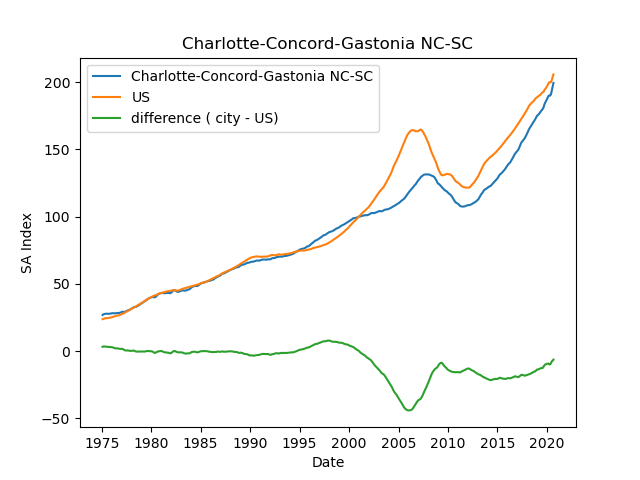
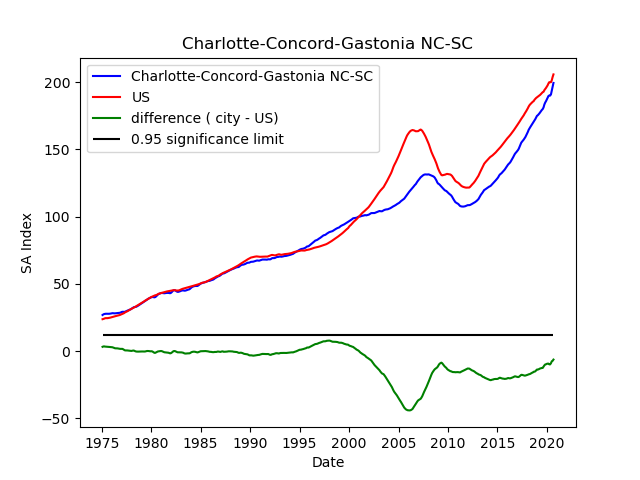
added t value to graphs. recolored. deleted stats file as the stats are in the plot loop

diff --git a/plot.py b/plot.py
@@ -1,9 +1,10 @@
 from importingCSVs import cityCodes
 from getCityData import indicesDict, areaCodes, USIndexDF
 import matplotlib.pyplot as plt
+from scipy import stats
 #import pandas as pd
 
-saDiffDict = {}
+# unneeded saDiffDict = {}
 
 ####plot date vs. sa (city, US and city - US) for select city
 #Choose city
@@ -16,22 +17,31 @@ for areaCode in areaCodes:
     cityUSDF = plotDF.merge(USIndexDF, on='date')
     cityUSDF['sa'] = cityUSDF['sa_x'] - cityUSDF['sa_y']
     cityUSDF.rename(columns = {'sa_x':'sa_city', 'sa_y':'sa_US', 'sa':'sa_city-US'}, inplace = True)
-    saDiffDict[str(areaCode)]=cityUSDF[['date', 'sa_city-US']]
+    #Unneeded - saDiffDict[str(areaCode)]=cityUSDF[['date', 'sa_city-US']]
+
+    #find 0.95 sample limit
+    mean = cityUSDF['sa_city-US'].mean()
+    std = cityUSDF['sa_city-US'].std()
+    t_95 = stats.norm.ppf(0.95, loc = 0, scale = 1)
+    x_95 = t_95*std + mean
+    x_min = cityUSDF['date'].min()
+    x_max = cityUSDF['date'].max()
+    plt.hlines(x_95, x_min, x_max, 'k', label = '0.95 significance limit')
 
     #set x, y arrays and plot for city
     x1 = cityUSDF['date'].values
     y1 = cityUSDF['sa_city'].values
-    plt.plot(x1,y1, label = cityName)
+    plt.plot(x1,y1, 'b', label = cityName)
 
     #set x, y arrays and plot for US
     x2 = cityUSDF['date'].values
     y2 = cityUSDF['sa_US'].values
-    plt.plot(x2,y2, label = 'US')
+    plt.plot(x2,y2, 'r', label = 'US')
 
     #set x, y arrays and plot for city - US
     x3 = cityUSDF['date'].values
     y3 = cityUSDF['sa_city-US'].values
-    plt.plot(x3,y3, label = 'difference ( city - US)')
+    plt.plot(x3,y3, 'g', label = 'difference ( city - US)')
 
     #set labels
     plt.title(cityName)
